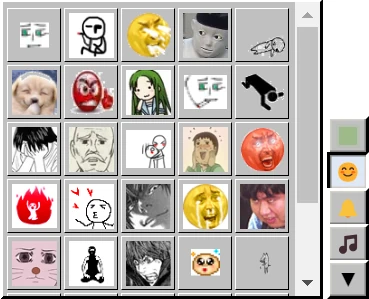
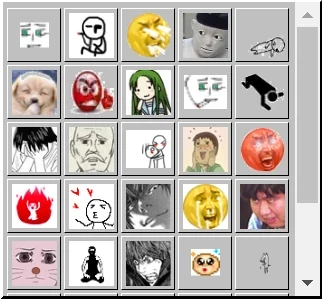
docs(help): 6편의 옛 세로 칩 사진 걷기 (#540)
- 6.html: 춤 · 투게더룸 그림을 새 ▾ 메뉴(3/02) · 미니 메뉴(3/01) 사진으로 · 설명 붙임
- img/6/08.webp: 이모티콘 팔레트 옆에 찍힌 옛 세로 칩을 잘라 냄
- img/6/09 · 6/11.webp: 옛 칩 사진이라 걷음(이제 아무 데서도 안 씀)

diff --git a/firebase/hosting/help/6.html b/firebase/hosting/help/6.html
@@ -33,13 +33,13 @@
 <figure class="narrow"><img src="/img/6/08.webp" loading="lazy" alt=""></figure>
 <h3>이모티콘 · 춤</h3>
 <p>워킹룸에서는 대화를 못 하지만, 미니 메뉴의 <b>😊 버튼</b>으로 프로그램에 들어 있는 <b>그 시절 이모티콘 33개</b>를 쓸 수 있어요. 고르면 내 캐릭터 머리 위 말풍선으로 떠서 방 사람들에게도 보여요. (라이선스 없이 쓸 수 있어요.)</p>
-<figure class="narrow"><img src="/img/6/09.webp" loading="lazy" alt=""></figure>
+<figure class="narrow"><img src="/img/3/02.webp" loading="lazy" alt="▾ 메뉴"><figcaption>▾ 메뉴 — 바로가기 칸의 💃 춤추기 (워킹룸)</figcaption></figure>
 <p>춤을 해금했다면 <b>▾ › 💃 춤추기</b>로 다 같이 춤을 출 수 있어요. <a class="xref" href="/4">🔗 4. 드롭다운 메뉴</a></p>
 <figure class="narrow"><img src="/img/6/10.webp" loading="lazy" alt=""></figure>
 
 <h2>▶ 💬 투게더룸</h2>
 <p>채팅을 쓸 수 있는 방이에요. <b>만들기는 프리미엄 라이선스 보유자만</b> 할 수 있지만, <b>참여는 누구나</b> 할 수 있어요. 최대 <b>10명</b>까지 들어올 수 있어요.</p>
-<figure class="narrow"><img src="/img/6/11.webp" loading="lazy" alt=""></figure>
+<figure class="narrow"><img src="/img/3/01.webp" loading="lazy" alt="미니 메뉴"><figcaption>투게더룸의 미니 메뉴 — 💬 채팅 · ▾</figcaption></figure>
 <p>캐릭터 이름 아래 미니 메뉴의 <b>[💬 채팅]</b> 버튼이나 <b>F5</b>로 대화창을 열고 닫아요.</p>
 
 <figure class="narrow"><img src="/img/6/02.webp" loading="lazy" alt="대화창"><figcaption>대화창 — 메뉴 · 채널 탭 · 멤버 줄 · 여기까지 읽음 (이름 · 대화는 예시)</figcaption></figure>
